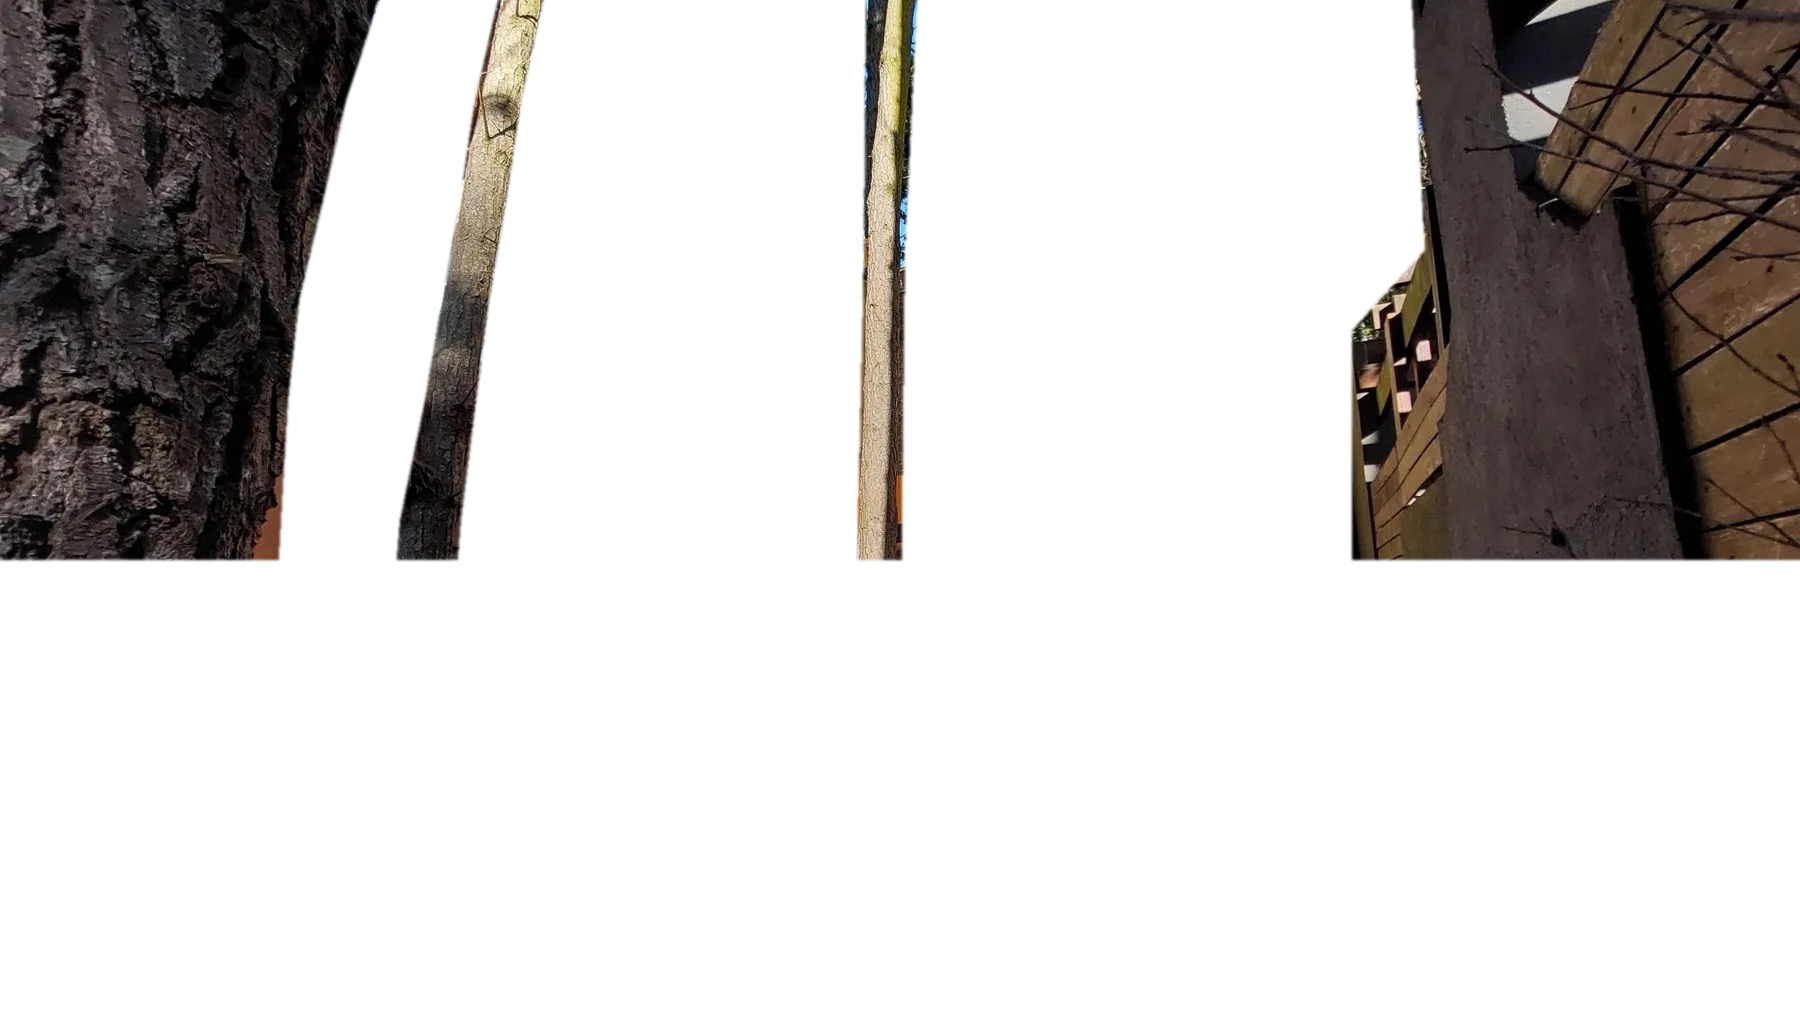
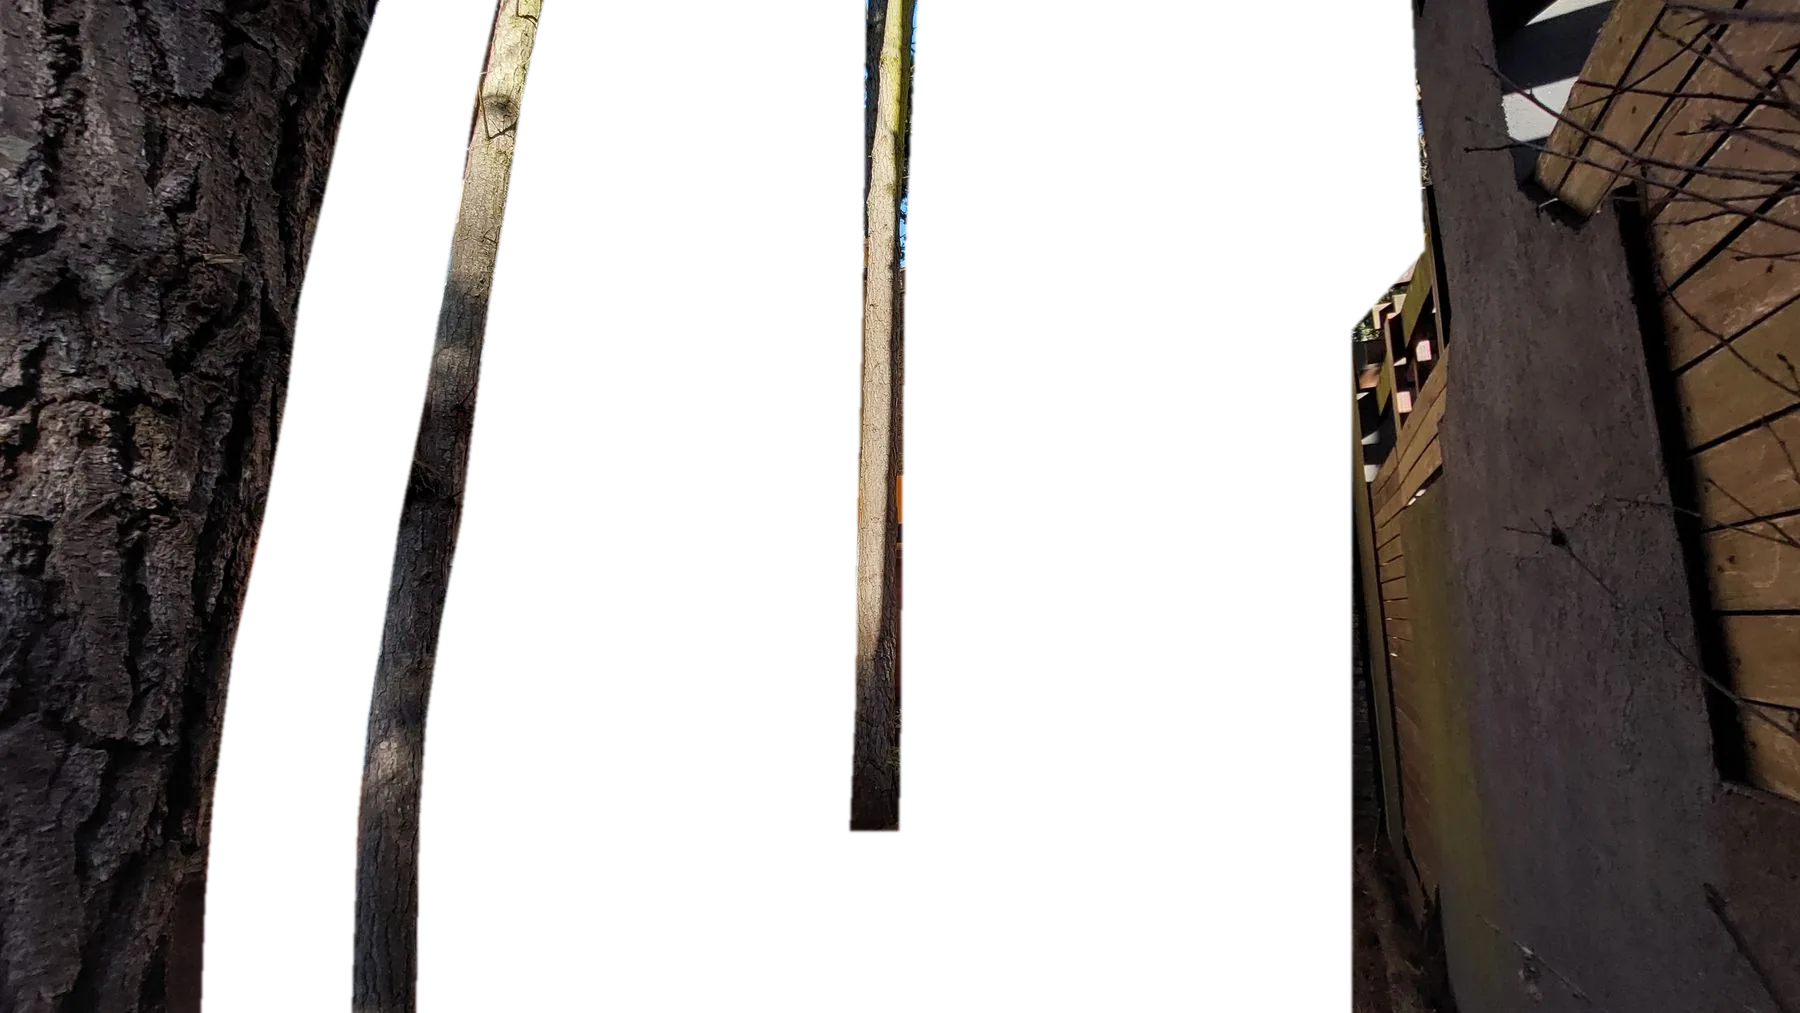
ananda: wordmark más abajo, capa de troncos extendida
Claude-Session: https://claude.ai/code/session_01U2VGfb4mjcsXBjixBJNJta

diff --git a/ananda/index.html b/ananda/index.html
@@ -53,7 +53,7 @@ h2 em{font-style:italic;color:var(--terra-deep)}
 .hero-photo{position:absolute;inset:0;width:100%;height:100%;object-fit:cover;object-position:center 40%;animation:heroIn 2.4s cubic-bezier(.2,.7,.2,1) both}
 .hero-front{z-index:2;pointer-events:none}
 @keyframes heroIn{from{transform:scale(1.08);filter:brightness(.7)}}
-.wordmark{position:relative;z-index:1;margin:clamp(72px,10vw,96px) 0 0;text-align:center;font:400 clamp(96px,26vw,420px)/.8 var(--display);letter-spacing:-.02em;color:#FBF6EE;text-shadow:0 8px 40px rgba(43,28,20,.25);animation:wordIn 1.8s cubic-bezier(.2,.7,.2,1) .2s both;user-select:none}
+.wordmark{position:relative;z-index:1;margin:max(110px,30svh) 0 0;text-align:center;font:400 clamp(96px,26vw,420px)/.8 var(--display);letter-spacing:-.02em;color:#FBF6EE;text-shadow:0 8px 40px rgba(43,28,20,.25);animation:wordIn 1.8s cubic-bezier(.2,.7,.2,1) .2s both;user-select:none}
 @media(min-width:900px){.wordmark{font-size:min(17vw,44vh)}}
 @keyframes wordIn{from{opacity:0;transform:translateY(24px)}}
 .hero-shade{position:absolute;inset:0;z-index:3;pointer-events:none;background:linear-gradient(180deg,rgba(43,28,20,.28) 0%,rgba(43,28,20,0) 30%,rgba(43,28,20,.1) 60%,rgba(30,19,13,.72) 100%)}
